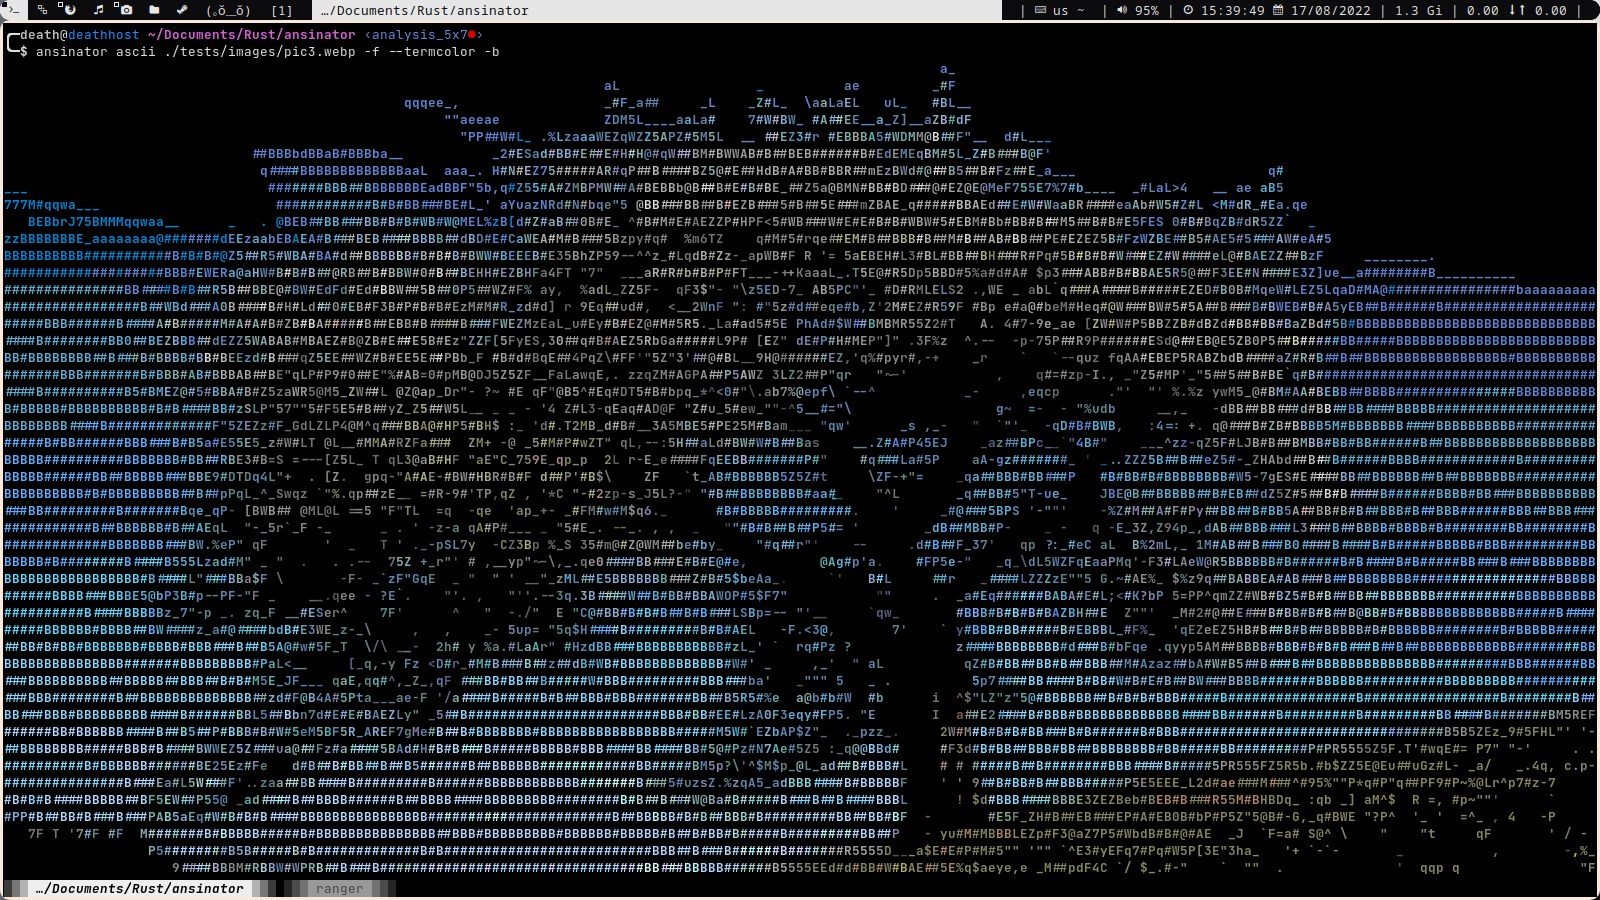
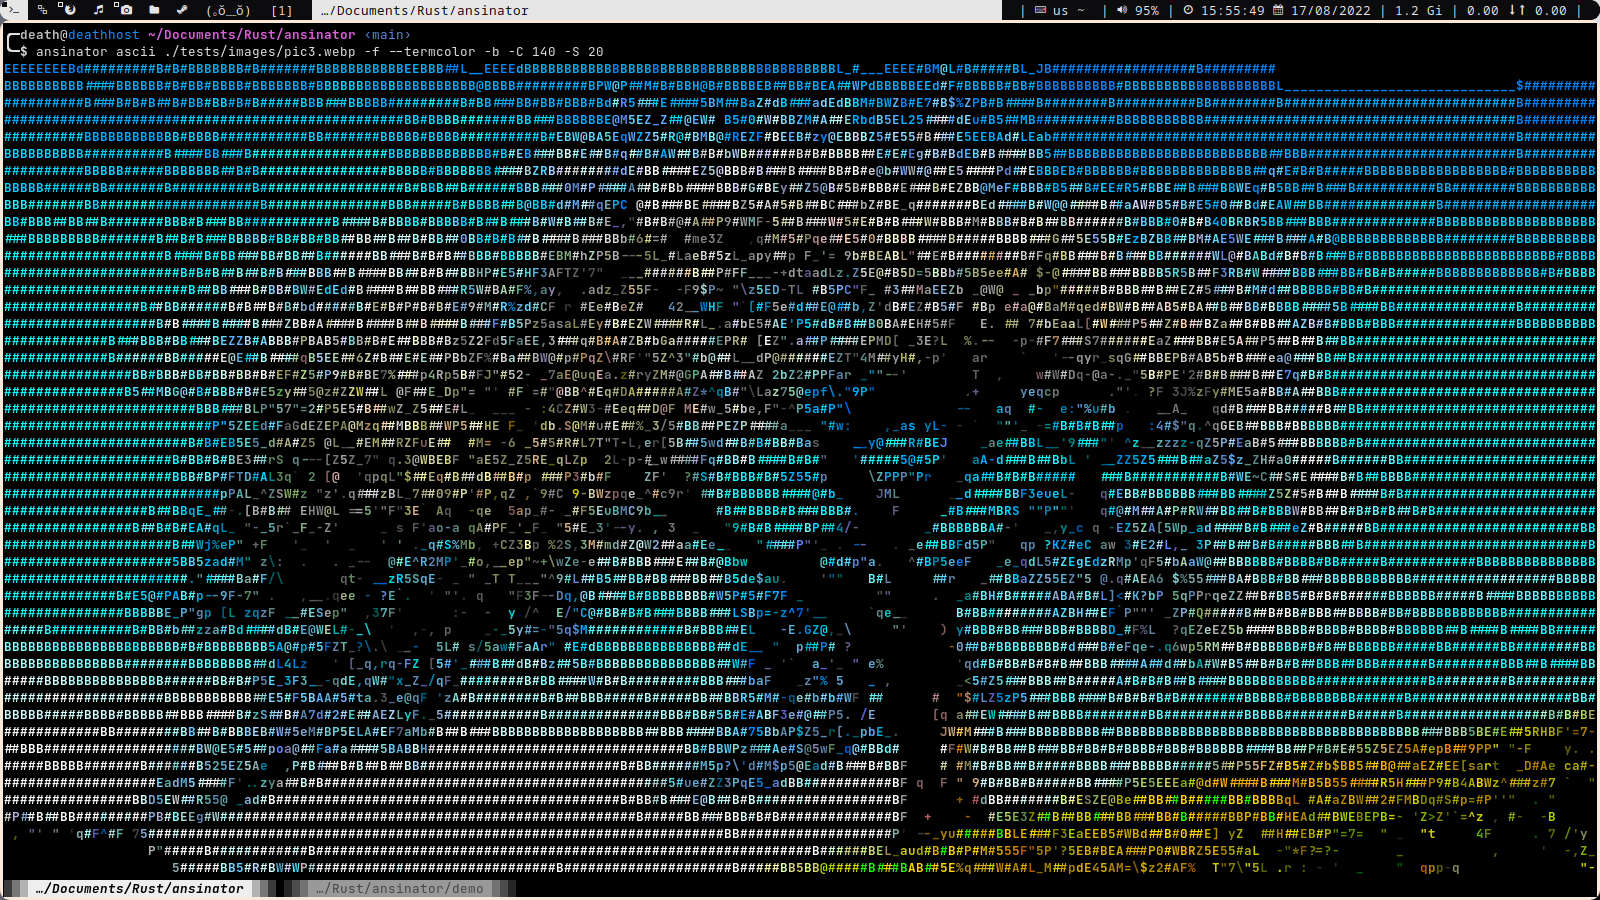
Change demo image with better contrast

Changed region(s): [[0.0, 0.0311, 1.0, 1.0]]

diff --git a/demo/demo.md b/demo/demo.md
@@ -13,7 +13,7 @@ ansinator ascii ./tests/images/pic5.jpg -W 120 -H 40 --rgbcolor -c "0123456789"
 <img src="https://github.com/dax99993/ansinator/blob/main/demo/ascii_2.png" width='1024' height='768'>
 
 ```sh
-ansinator ascii ./tests/images/pic3.webp -f --termcolor -b
+ansinator ascii ./tests/images/pic3.webp -f --termcolor -b -C 140 -S 20
 ```
 
 <img src="https://github.com/dax99993/ansinator/blob/main/demo/ascii_3.png" width='1024' height='768'>
